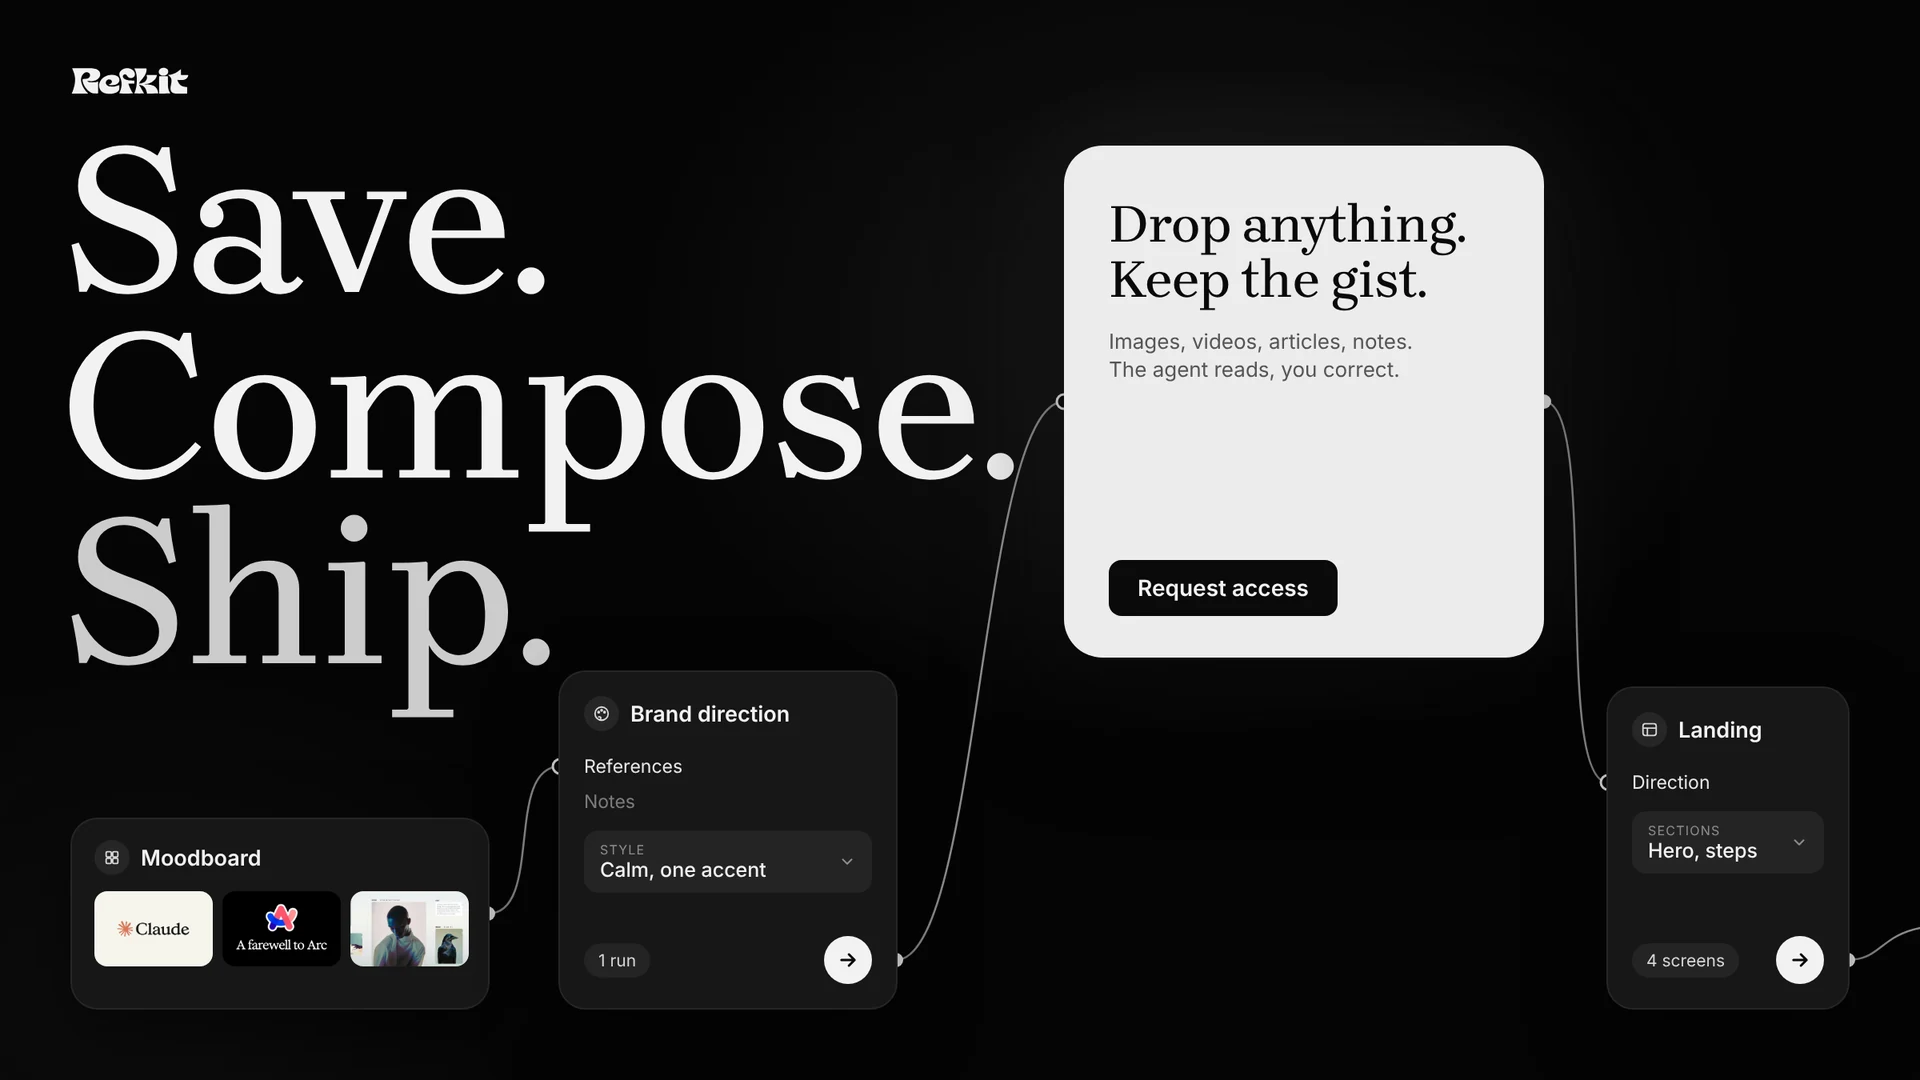
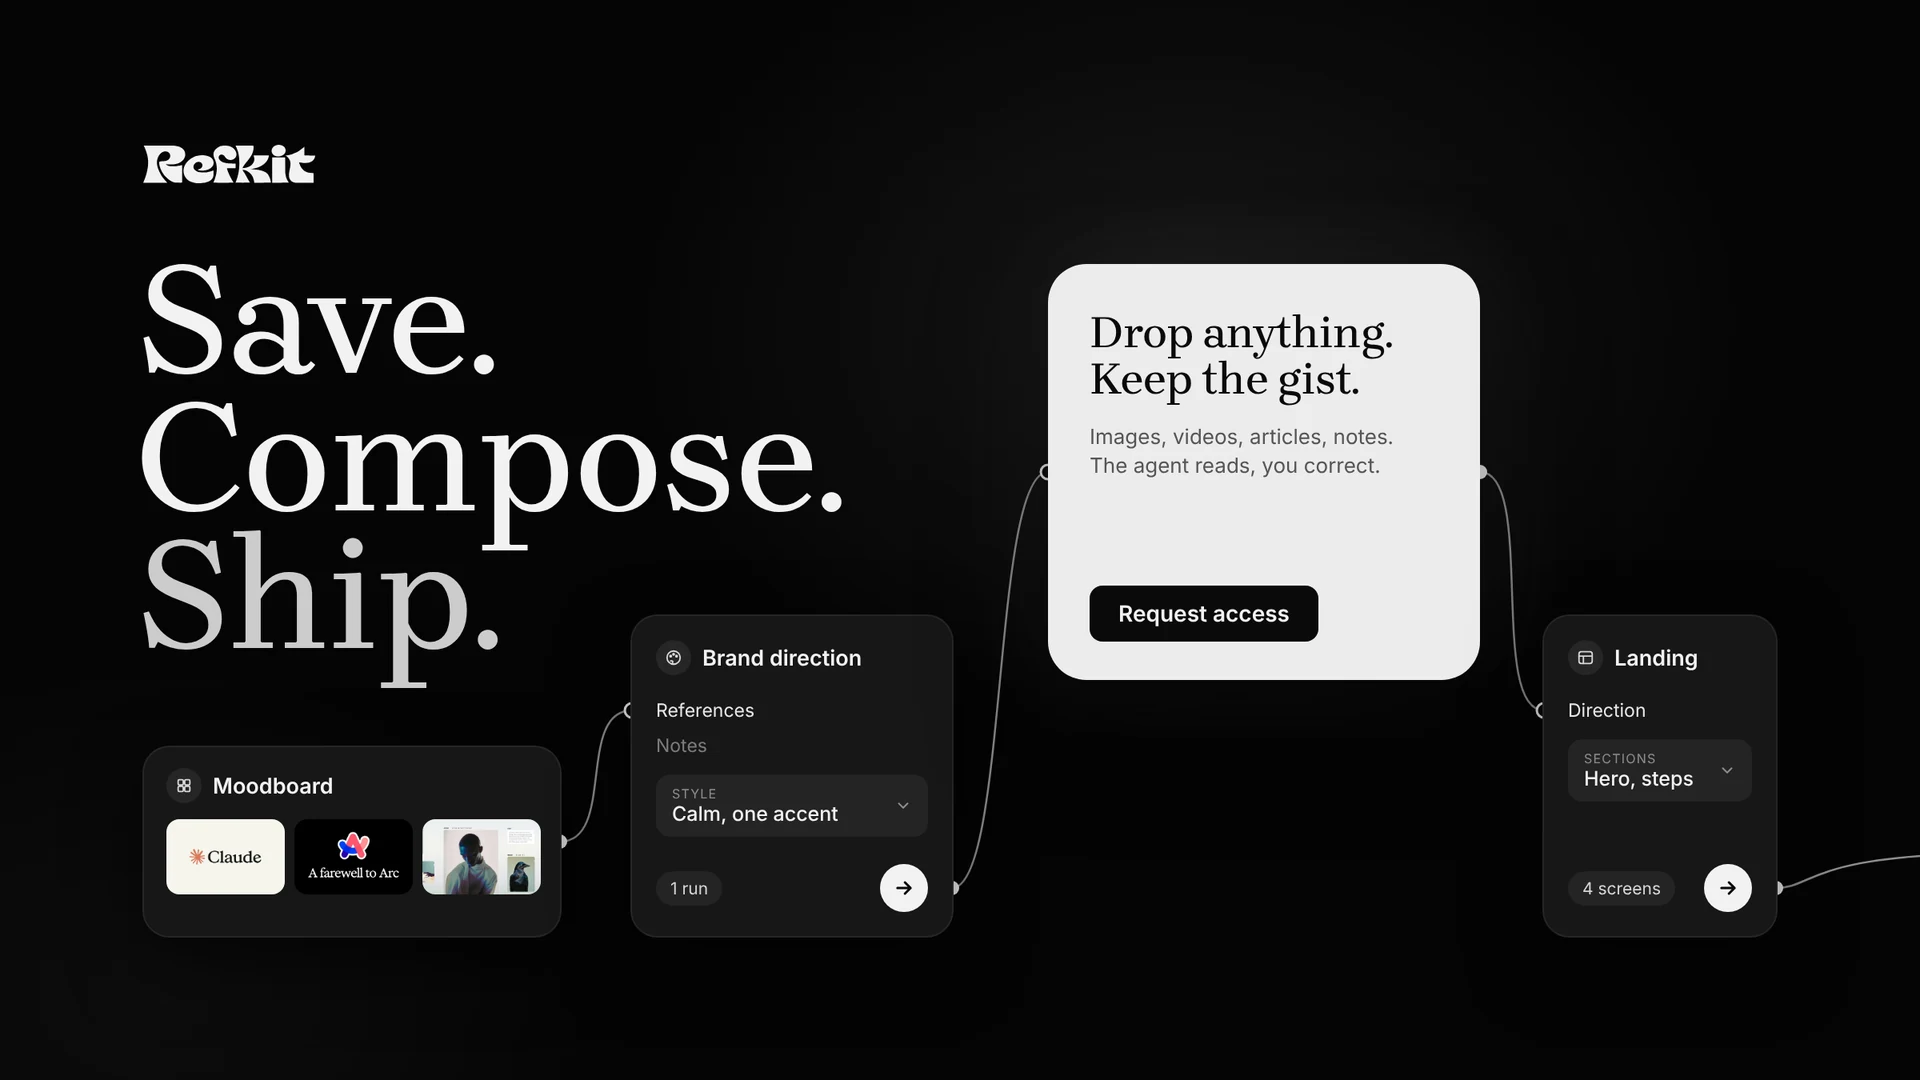
Refkit: refresh cover and description

diff --git a/index.html b/index.html
@@ -36,9 +36,9 @@
         <div class="project-list">
           <article class="project project--lavender" data-case-url="https://niko-myshkin.github.io/refkit/">
             <div class="project-art project-art--image project-art--wide" aria-hidden="true">
-              <img class="project-cover" src="case-refkit-cover.webp" alt="" width="1920" height="1080" decoding="async" />
+              <img class="project-cover" src="case-refkit-cover.webp?v=20261104-5" alt="" width="1920" height="1080" decoding="async" />
             </div>
-            <div class="project-meta"><h2>Refkit</h2><p>A library and canvas for Claude Code and Codex. Save what you like, and your agent turns it into brand directions, screens and pages.</p></div>
+            <div class="project-meta"><h2>Refkit</h2><p>A library and canvas for your coding agent. Open&nbsp;source, runs on your Mac.</p></div>
           </article>
 
           <article class="project project--lavender" data-case-url="case-atlas.html">
